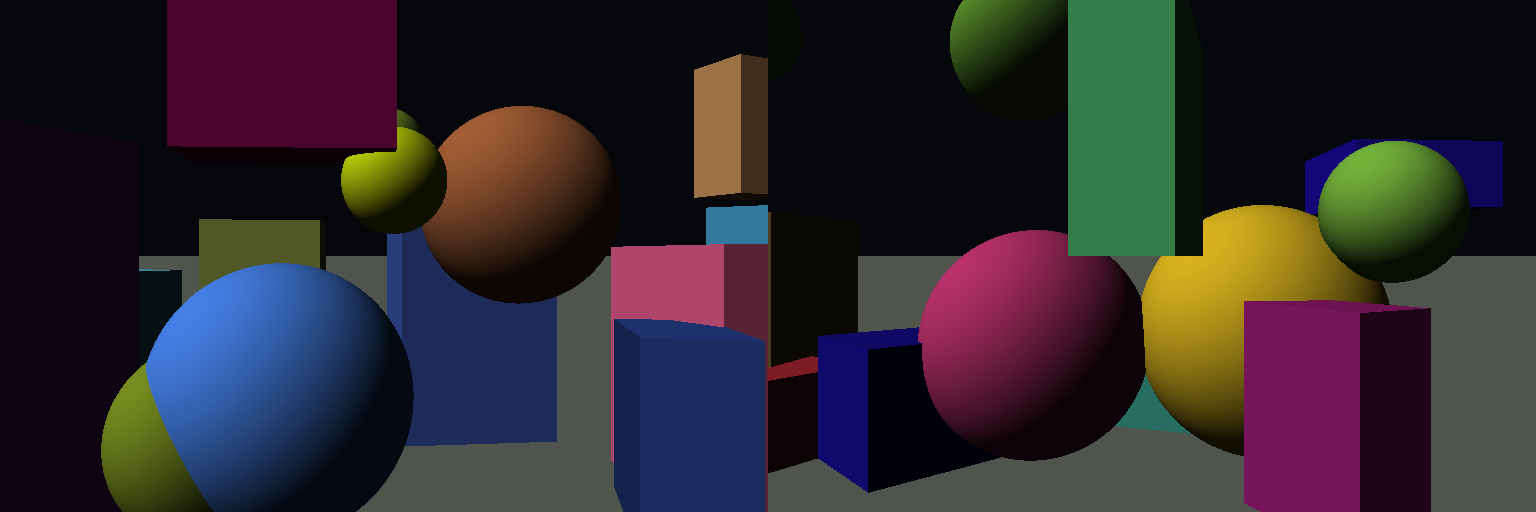
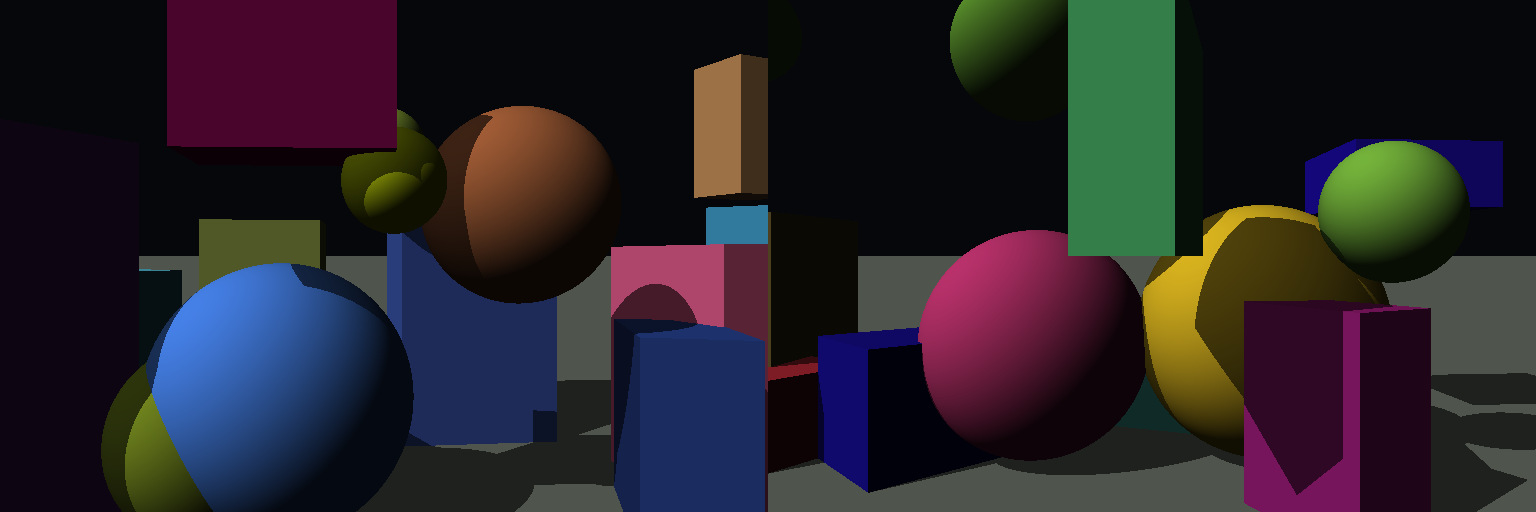
Render shadows

diff --git a/synthetic_scene/csrc/bindings.cpp b/synthetic_scene/csrc/bindings.cpp
@@ -170,7 +170,9 @@ void render_scene_cuda(
     torch::Tensor background,
     torch::Tensor sphere_colors,
     torch::Tensor plane_colors,
-    torch::Tensor box_colors);
+    torch::Tensor box_colors,
+    bool shadows,
+    double shadow_strength);
 
 py::dict require_dict(py::dict values, const char* key) {
   const py::str py_key(key);
@@ -188,6 +190,12 @@ double require_double(py::dict values, const char* key) {
   const py::str py_key(key);
   TORCH_CHECK(values.contains(py_key), "missing dictionary key: ", key);
   return values[py_key].cast<double>();
+}
+
+bool require_bool(py::dict values, const char* key) {
+  const py::str py_key(key);
+  TORCH_CHECK(values.contains(py_key), "missing dictionary key: ", key);
+  return values[py_key].cast<bool>();
 }
 
 py::dict random_scene(
@@ -348,6 +356,8 @@ void render_scene(
   const torch::Tensor light_dir = require_tensor(options, "light_dir");
   const torch::Tensor background = require_tensor(options, "background");
   const double fov_degrees = require_double(options, "fov_degrees");
+  const bool shadows = require_bool(options, "shadows");
+  const double shadow_strength = require_double(options, "shadow_strength");
 
   const torch::Tensor sphere_centers = require_tensor(spheres, "centers");
   const torch::Tensor sphere_radii = require_tensor(spheres, "radii");
@@ -408,6 +418,7 @@ void render_scene(
   TORCH_CHECK(box_centers.size(1) == box_colors.size(1), "box_centers and box_colors must have matching lengths");
   TORCH_CHECK(sphere_centers.size(1) > 0 || plane_points.size(1) > 0 || box_centers.size(1) > 0, "at least one object slot is required");
   TORCH_CHECK(light_dir.numel() == 3 && background.numel() == 3, "light/background vectors must be vec3");
+  TORCH_CHECK(shadow_strength >= 0.0 && shadow_strength <= 1.0, "shadow_strength must be in the range [0, 1]");
   TORCH_CHECK(sphere_centers.dtype() == torch::kFloat32, "sphere_centers must be float32");
   TORCH_CHECK(sphere_radii.dtype() == torch::kFloat32, "sphere_radii must be float32");
   TORCH_CHECK(plane_points.dtype() == torch::kFloat32, "plane_points must be float32");
@@ -448,7 +459,9 @@ void render_scene(
       background,
       sphere_colors,
       plane_colors,
-      box_colors);
+      box_colors,
+      shadows,
+      shadow_strength);
 }
 
 PYBIND11_MODULE(TORCH_EXTENSION_NAME, m) {

diff --git a/synthetic_scene/renderer.py b/synthetic_scene/renderer.py
@@ -19,6 +19,8 @@ class RenderOptions:
     light_dir: Vec3 = (-0.6, 0.7, 0.5)
     background: Vec3 = (0.02, 0.03, 0.04)
     fov_degrees: float = 45.0
+    shadows: bool = True
+    shadow_strength: float = 0.68
 
 
 @dataclass(frozen=True)
@@ -281,6 +283,8 @@ def render_scene(
     scene_data = scene or Scene()
     if options_data.fov_degrees <= 0.0 or options_data.fov_degrees >= 180.0:
         raise ValueError("fov_degrees must be in the open interval (0, 180)")
+    if options_data.shadow_strength < 0.0 or options_data.shadow_strength > 1.0:
+        raise ValueError("shadow_strength must be in the range [0, 1]")
 
     device = torch.device("cuda")
     centers = _vec3_batch(scene_data.spheres.centers, device=device)
@@ -359,6 +363,8 @@ def render_scene(
             "light_dir": _vec3(options_data.light_dir, device=device),
             "background": _vec3(options_data.background, device=device),
             "fov_degrees": float(options_data.fov_degrees),
+            "shadows": bool(options_data.shadows),
+            "shadow_strength": float(options_data.shadow_strength),
         },
     )
     if return_maps:

diff --git a/README.md b/README.md
@@ -28,11 +28,12 @@ a rear background plane.
 You can render a scene directly from Python:
 
 ```python
-from synthetic_scene import OrientedBoxes, Planes, Scene, Spheres, render_scene
+from synthetic_scene import OrientedBoxes, Planes, RenderOptions, Scene, Spheres, render_scene
 
 image = render_scene(
     width=768,
     height=512,
+    options=RenderOptions(shadows=True, shadow_strength=0.68),
     scene=Scene(
         spheres=Spheres(
             centers=[(-0.8, 0.0, -3.0), (0.8, 0.0, -3.2)],
@@ -64,6 +65,11 @@ RGB tensors are returned as `B x 3 x H x W`. Unbatched scene tensors return
 `B = 1`; scene tensors shaped as `B x N x ...` render one independent scene per
 batch item. Object coordinates are camera-space, with the camera at the origin
 looking down `-Z`.
+
+Directional-light hard shadows are enabled by default. Set
+`RenderOptions(shadows=False)` to render direct Lambert shading without shadow
+rays, or tune `shadow_strength` in `[0, 1]` to control how much blocked direct
+light is darkened.
 
 To request segmentation ground truth, pass `return_maps=True`:
 